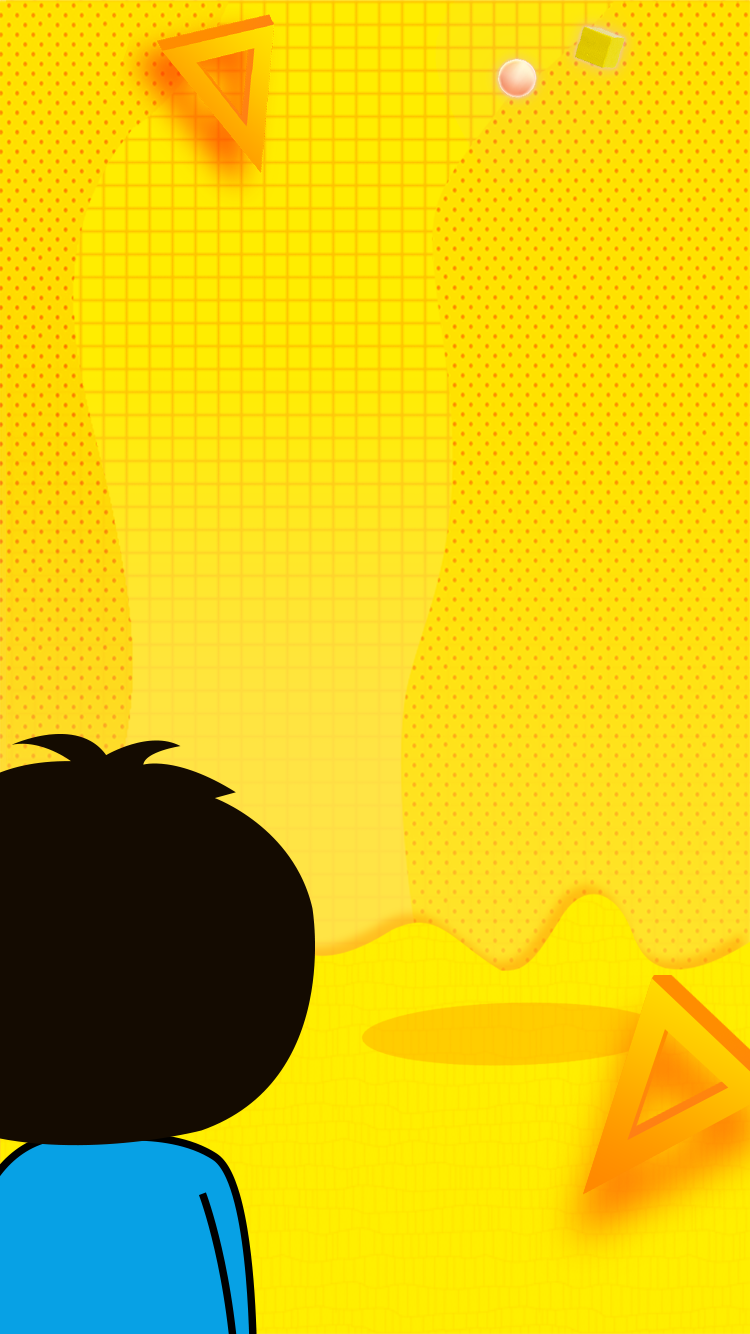
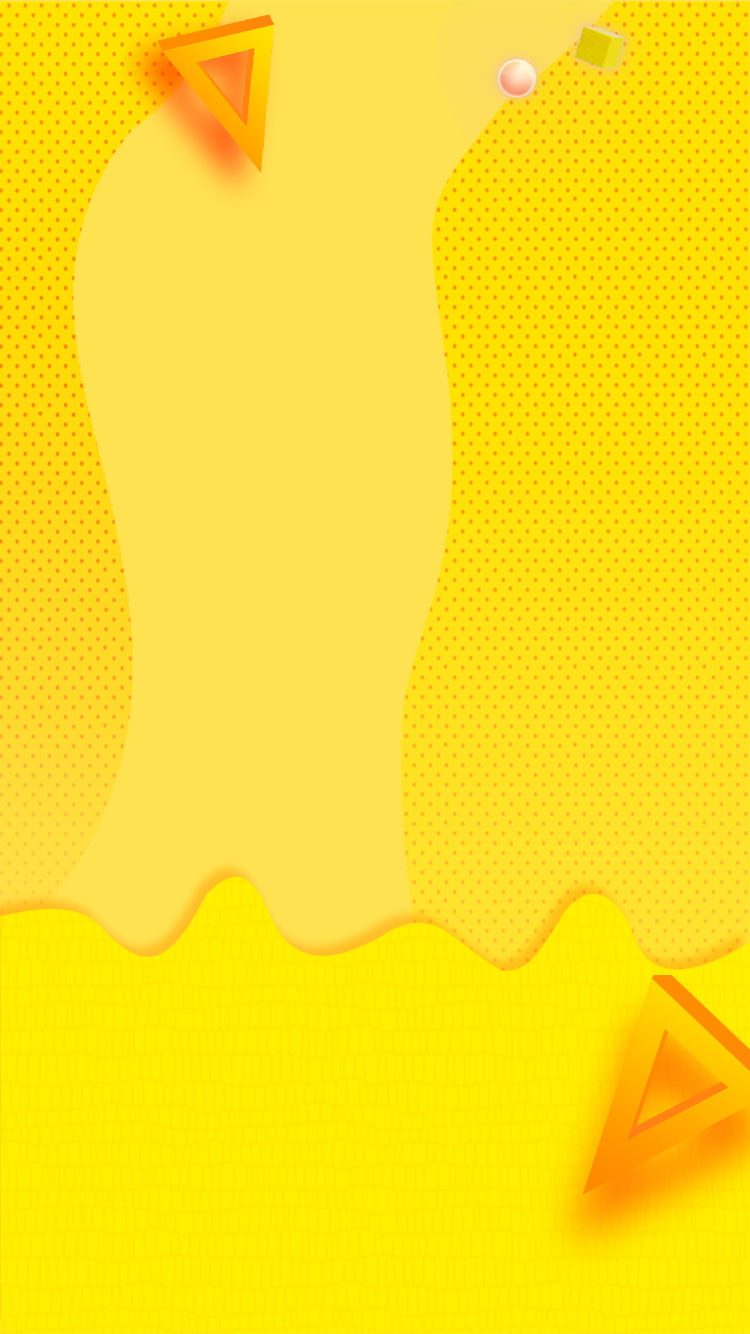
适配移动端

diff --git a/css/index.css b/css/index.css
@@ -83,6 +83,12 @@ body {
 .girl img {
     width: 100%;
 }
+.boy {
+    position: absolute;
+}
+.boy img {
+    width: 45%;
+}
 /*弹幕*/
 .barrage {
     width: 100%;
@@ -118,32 +124,13 @@ body {
     from {left: 300px;}
     to {left: -170px;}
 }
-/*二*/
-/* .tm2 {
-    width: 58%;
-    left: -10%;
-    position: absolute;
-    animation: movetm2 5s infinite;
-    -webkit-animation: movetm2 5s infinite;
-}
-@keyframes movetm2 {
-    from {left: 100px;}
-    to {left: -200px;}
-} */
-/*@-webkit-keyframes movetm2 {
-    from {left: 370px;}
-    to {left: -370px;}
-}*/
-/* .tm3 {
-    width: 54%;
-} */
 /*按钮*/
 .btn {
     position: absolute;
-    bottom: 5%;
+    bottom: 3%;
 }
 .btn img {
-    width: 54%;
+    width: 45%;
     top: 0; 
     bottom: 0;
     left: 0;
@@ -152,7 +139,17 @@ body {
     margin-right: auto;
     display: block;
 }
-/*-----------------     问题    -------------------*/
+/*-----------------第二屏-------------------*/
+.txt {
+    margin-top: 16%;
+}
+.txt img {
+    width: 75%;
+    margin-left: auto;
+    margin-right: auto;
+    display: block;
+}
+/*---- 问题 ----*/
 .page2 {
     background-image: url(../images/page2/back.png);
     background-size: 100%;
@@ -163,19 +160,22 @@ body {
     width: 100%;
 }
 .swiper-container-son {
-    height: 53%;
+    height: 50%;
     width: 100%;
     position: absolute;
     bottom: 17%;
 }
 .questionBack {
-    width: 100%;
+    width: 95%;
+    margin-left: auto;
+    margin-right: auto;
+    display: block;
 }
 .question {
     position: relative;
 }
 .tag {
-    width: 24%;
+    width: 20%;
     position: absolute;
     top: -11%;
     left: -1%;
@@ -242,7 +242,7 @@ input:checked+label::after {
 }
 .page3Title {
     position: absolute;
-    top: 6%;
+    top: 5%;
 }
 .page3Title img {
     width: 55%;
@@ -256,13 +256,22 @@ input:checked+label::after {
 }
 .page3Details {
     position: absolute;
-    top: 13%;
+    top: 14%;
+    z-index: 9;
 }
 .page3Details img {
-    width: 77%;
-    margin-left: 14%;
+    width: 73%;
+    margin-left: 16%;
     margin-right: auto;
     display: block;
+}
+.recommend {
+    position: absolute;
+    bottom: 0%;
+    z-index: 0;
+}
+.recommend img {
+    width: 100%;
 }
 .call {
     position: absolute;

diff --git a/index.html b/index.html
@@ -25,7 +25,11 @@
             <!-- 女孩 -->
             <div class="girl">
                 <img src="./images/page1/girl.png">
-            </div>  
+            </div> 
+            <!-- 男孩 --> 
+            <div class="boy">
+                <img src="./images/page1/boy.png">
+            </div>
             <!-- 蝴蝶 -->
 	      	<div class="butterfly">
 	      		
@@ -41,6 +45,9 @@
       	</div>
       	<!-- 第二类 问题页7个-->
       	<div class="swiper-slide page2">
+            <div class="txt">
+                <img src="./images/page2/txt.png">
+            </div>
             <!-- 问题 -->
             <div class="swiper-container swiper-container-son">
                 <div class="swiper-wrapper optionArr">
@@ -60,6 +67,10 @@
                     <img src="./images/page3/A.png">
                 </div> -->
 
+            </div>
+            <!-- 推荐语 -->
+            <div class="recommend">
+                <img src="./images/page3/recommend.png">
             </div>
             <!-- 按钮 -->
 	      	<div class="call" >

diff --git a/js/index.js b/js/index.js
@@ -5,6 +5,7 @@ var swiperFather = new Swiper('.swiper-container-father', {
         slideShadows : true,
         limitRotation : true,
     },
+    // autoHeight: true, //高度随内容变化
     direction: 'vertical', //垂直翻页
     onlyExternal : true, //值为true时，slide无法拖动
     // pagination: {
